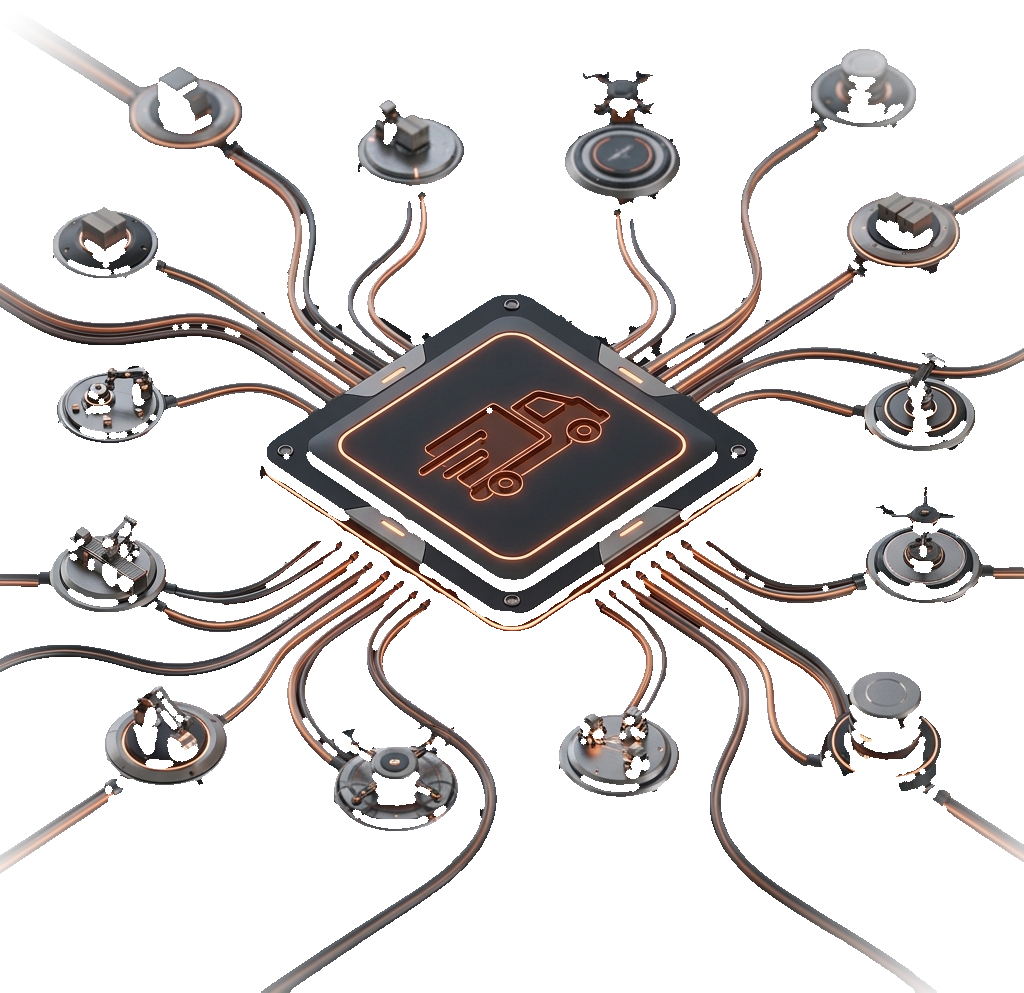
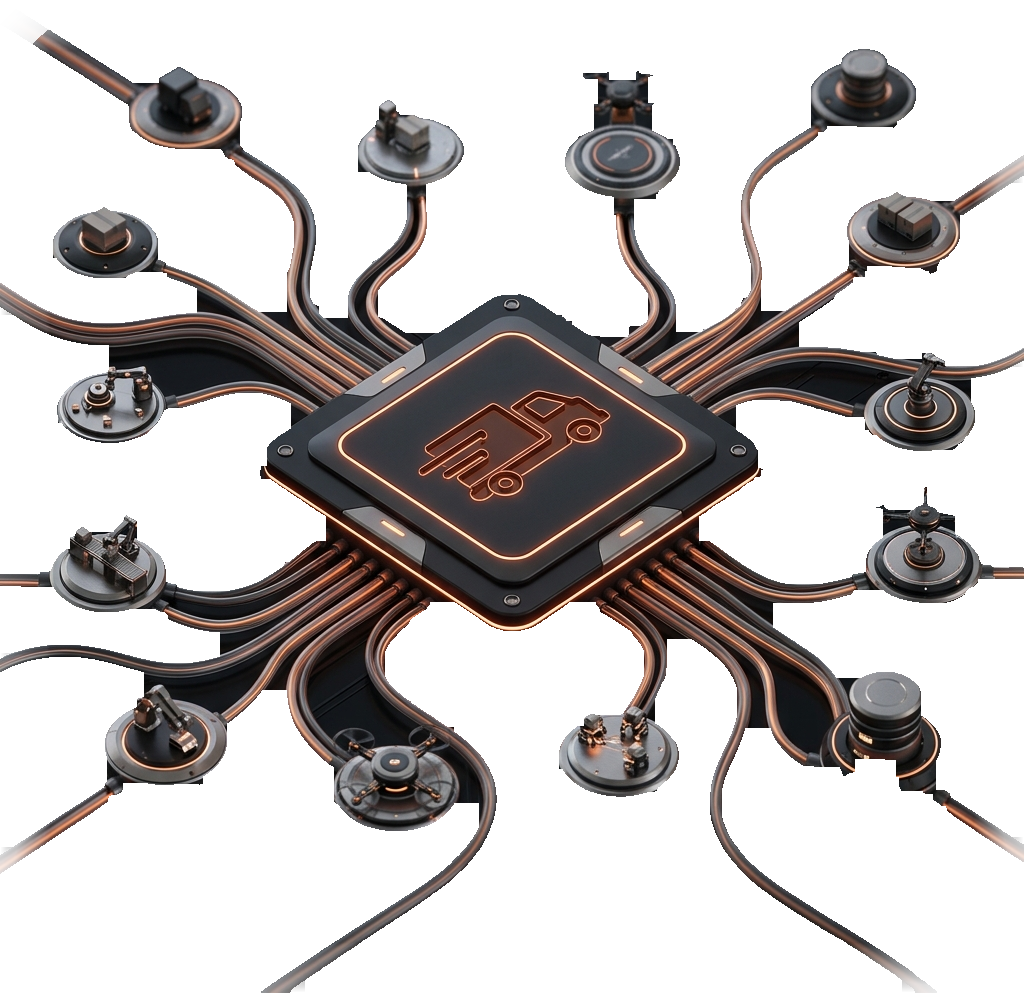
style(ui): remove background glows/spotlights and restore 3d hub & lightbulb quality

diff --git a/src/components/landing/CatalogSection.tsx b/src/components/landing/CatalogSection.tsx
@@ -270,40 +270,45 @@ export function CatalogSection() {
                         whileHover={{ scale: 1.01 }}
                         className="relative p-6 sm:p-8 rounded-2xl border border-[#3E3D3A] bg-gradient-to-br from-[#262523] via-[#1E1D1C] to-[#161514] overflow-hidden"
                     >
-                        {/* Ambient background */}
-                        <div className="absolute top-0 right-0 w-64 h-64 bg-[#C84214] rounded-full blur-[100px] opacity-10 animate-[catalog-glow_8s_ease-in-out_infinite]" />
-
                         <div className="relative z-10 flex flex-col sm:flex-row items-center justify-between gap-6">
                             <div className="flex items-center gap-4">
-                                {/* Lamparita que se enciende gradualmente al entrar en pantalla:
-                                    crossfade apagada -> encendida + glow cálido que crece. */}
+                                {/* Lamparita que se enciende gradualmente al entrar en pantalla sin halo de fondo */}
                                 <div className="relative flex items-center justify-center w-14 h-16 shrink-0">
-                                    <motion.div
-                                        aria-hidden
-                                        className="absolute inset-0 rounded-full blur-xl"
-                                        style={{ background: 'radial-gradient(circle, rgba(255,170,60,0.75), transparent 70%)' }}
-                                        initial={{ opacity: 0, scale: 0.6 }}
-                                        whileInView={{ opacity: [0, 0, 0.9], scale: [0.6, 0.8, 1.2] }}
-                                        viewport={{ once: true, margin: '-80px' }}
-                                        transition={{ duration: 1.3, times: [0, 0.4, 1], ease: 'easeOut' }}
-                                    />
                                     <motion.div
                                         className="absolute inset-0 flex items-center justify-center"
                                         initial={{ opacity: 1 }}
-                                        whileInView={{ opacity: 0 }}
+                                        whileInView={{ opacity: [1, 1, 0] }}
                                         viewport={{ once: true, margin: '-80px' }}
-                                        transition={{ duration: 1, delay: 0.3, ease: 'easeInOut' }}
+                                        transition={{ duration: 1.2, delay: 0.2, times: [0, 0.85, 1], ease: 'easeInOut' }}
                                     >
-                                        <Image src="/3d/lampara-off.png" alt="" aria-hidden width={306} height={512} quality={95} sizes="256px" className="h-16 w-auto object-contain" />
+                                        <Image
+                                            src="/3d/lampara-off.png"
+                                            alt=""
+                                            aria-hidden
+                                            width={306}
+                                            height={512}
+                                            quality={100}
+                                            unoptimized
+                                            className="h-16 w-auto object-contain select-none"
+                                        />
                                     </motion.div>
                                     <motion.div
                                         className="absolute inset-0 flex items-center justify-center"
                                         initial={{ opacity: 0 }}
                                         whileInView={{ opacity: 1 }}
                                         viewport={{ once: true, margin: '-80px' }}
-                                        transition={{ duration: 1, delay: 0.3, ease: 'easeInOut' }}
+                                        transition={{ duration: 1.2, delay: 0.2, ease: [0.22, 1, 0.36, 1] }}
                                     >
-                                        <Image src="/3d/lampara-on.png" alt="" aria-hidden width={306} height={512} quality={95} sizes="256px" className="h-16 w-auto object-contain drop-shadow-[0_0_16px_rgba(255,170,60,0.65)]" />
+                                        <Image
+                                            src="/3d/lampara-on.png"
+                                            alt=""
+                                            aria-hidden
+                                            width={306}
+                                            height={512}
+                                            quality={100}
+                                            unoptimized
+                                            className="h-16 w-auto object-contain select-none"
+                                        />
                                     </motion.div>
                                 </div>
                                 <div>

diff --git a/src/components/landing/ProcessWorkflowSection.tsx b/src/components/landing/ProcessWorkflowSection.tsx
@@ -122,12 +122,6 @@ export function ProcessWorkflowSection() {
             id="proceso-operativo"
             className="relative overflow-hidden border-t border-[#3E3D3A]/40 bg-[#0E1012] py-16 sm:py-24"
         >
-            {/* Background subtle atmospheric gradient */}
-            <div
-                aria-hidden
-                className="pointer-events-none absolute -right-40 top-24 h-[520px] w-[520px] rounded-full bg-[radial-gradient(circle_at_center,rgba(200,66,20,0.08)_0%,transparent_70%)] blur-3xl"
-            />
-
             <div className="relative z-10 mx-auto max-w-7xl px-4 sm:px-6">
                 {/* Header de la sección */}
                 <div className="mb-10 sm:mb-14">
@@ -179,11 +173,11 @@ export function ProcessWorkflowSection() {
                         <Image
                             src="/logistics_hub_3d.png"
                             alt="Hub de distribución inteligente de INDIVIDRA"
-                            width={560}
-                            height={543}
+                            width={1024}
+                            height={993}
                             quality={95}
-                            sizes="(max-width: 1024px) 384px, 560px"
-                            className="w-full max-w-[280px] object-contain drop-shadow-[0_20px_44px_rgba(200,66,20,0.28)]"
+                            unoptimized
+                            className="w-full max-w-[280px] object-contain"
                         />
                         <div className="mt-4 max-w-[340px] border-l-2 border-[#C84214]/60 pl-4 text-left">
                             <span className="font-mono text-[11px] font-semibold uppercase tracking-widest text-[#C84214]">
@@ -213,11 +207,11 @@ export function ProcessWorkflowSection() {
                             <Image
                                 src="/logistics_hub_3d.png"
                                 alt="Hub de distribución inteligente de INDIVIDRA"
-                                width={560}
-                                height={543}
+                                width={1024}
+                                height={993}
                                 quality={95}
-                                sizes="(max-width: 1024px) 384px, 560px"
-                                className="w-full max-w-[420px] object-contain drop-shadow-[0_24px_50px_rgba(200,66,20,0.28)]"
+                                unoptimized
+                                className="w-full max-w-[420px] object-contain"
                             />
                             <div className="mt-4 max-w-[380px] border-l-2 border-[#C84214]/60 pl-4">
                                 <span className="font-mono text-[11px] font-semibold uppercase tracking-widest text-[#C84214]">

diff --git a/src/components/landing/HeroSection.tsx b/src/components/landing/HeroSection.tsx
@@ -2,7 +2,6 @@
 
 import { motion, useScroll, useTransform } from 'framer-motion'
 import Image from 'next/image'
-import { Spotlight } from '@/components/ui/spotlight'
 import { MobileHeroAnimation } from '@/components/ui/MobileHeroAnimation'
 import { MorphingText } from '@/components/ui/morphing-text'
 
@@ -36,14 +35,6 @@ export function HeroSection() {
             <motion.div
                 style={{ opacity }}
                 className="absolute inset-0 bg-[radial-gradient(ellipse_at_top,_var(--tw-gradient-stops))] from-[#C84214]/10 via-[#0B0D0E] to-[#0B0D0E] pointer-events-none"
-            />
-            <Spotlight
-                className="-top-40 left-0 md:left-60 md:-top-20"
-                fill="rgba(200, 66, 20, 0.12)"
-            />
-            <Spotlight
-                className="top-20 right-0 md:-right-20"
-                fill="rgba(183, 179, 176, 0.08)"
             />
 
             {/* Grid Pattern with parallax */}

diff --git a/src/components/logistica/LogisticaLanding.tsx b/src/components/logistica/LogisticaLanding.tsx
@@ -704,8 +704,8 @@ export function LogisticaLanding() {
                         width={512}
                         height={479}
                         quality={95}
-                        sizes="256px"
-                        className="h-24 w-auto object-contain drop-shadow-[0_20px_44px_rgba(200,66,20,0.3)] sm:h-28"
+                        unoptimized
+                        className="h-24 w-auto object-contain sm:h-28"
                     />
                     <p className="mt-4 max-w-md text-sm sm:text-base text-neutral-400 leading-relaxed">
                         Cada entrega, con estándar de calidad. Eso es lo que
